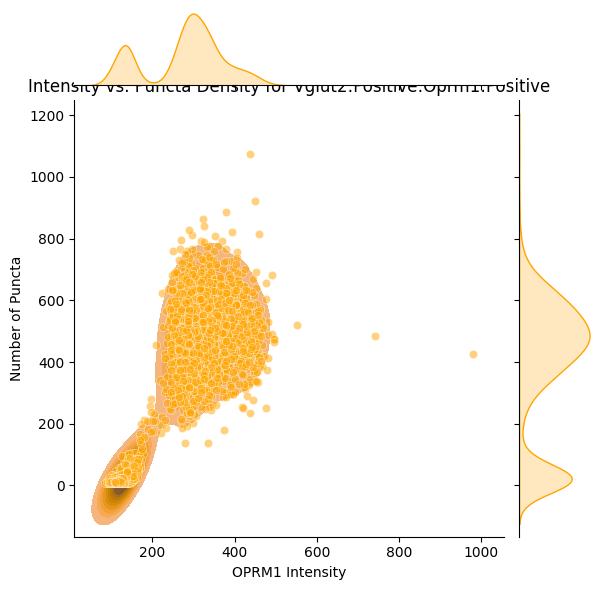
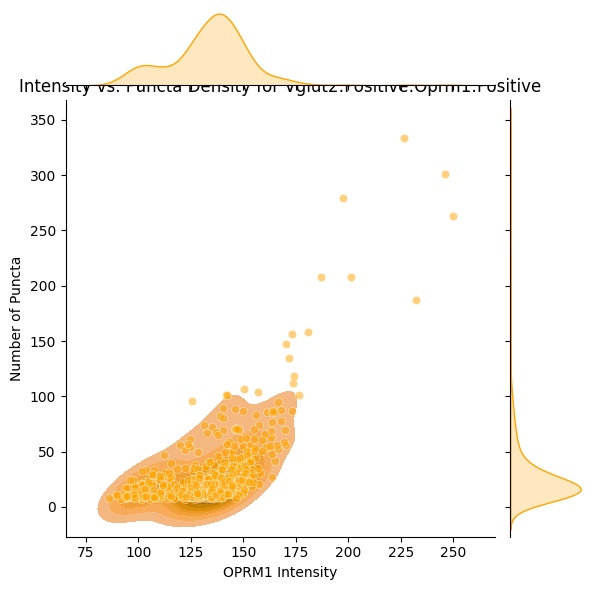
boxplot stats

diff --git a/ImageAnalysis/VentralPallidum_Pipeline/comparison_vgatvglut2oprm1_plots.py b/ImageAnalysis/VentralPallidum_Pipeline/comparison_vgatvglut2oprm1_plots.py
@@ -3,6 +3,7 @@ import pandas as pd
 import matplotlib.pyplot as plt
 import seaborn as sns
 from scipy.stats import mannwhitneyu, ks_2samp
+from statannotations.Annotator import Annotator
 
 # Define paths for VGAT and VGLUT2 data
 paths = {
@@ -74,45 +75,33 @@ for key in data:
     else:
         data[key] = pd.DataFrame(columns=["AF568: Cell: Mean", "Subcellular: Channel 2: Num spots estimated"])
 
-
-##STATS
-
-
 # Perform statistical tests between VGAT+ and VGLUT2+ groups
 vgat_data = data["vgat_positive_oprm1_positive"]
 vglut2_data = data["vglut2_positive_oprm1_positive"]
 
+stat_results = {}
+
 if not vgat_data.empty and not vglut2_data.empty:
-    # Extract intensity values
     vgat_intensity = vgat_data["AF568: Cell: Mean"]
     vglut2_intensity = vglut2_data["AF568: Cell: Mean"]
 
-    # Mann-Whitney U Test (non-parametric comparison of medians)
+    # Mann-Whitney U Test
     u_stat, u_p_value = mannwhitneyu(vgat_intensity, vglut2_intensity, alternative='two-sided')
-    print(f"Mann-Whitney U Test: U-statistic = {u_stat}, p-value = {u_p_value}")
+    stat_results["Mann-Whitney"] = (u_stat, u_p_value)
 
-    # Kolmogorov-Smirnov Test (non-parametric comparison of distributions)
+    # Kolmogorov-Smirnov Test
     ks_stat, ks_p_value = ks_2samp(vgat_intensity, vglut2_intensity)
-    print(f"Kolmogorov-Smirnov Test: KS-statistic = {ks_stat}, p-value = {ks_p_value}")
+    stat_results["Kolmogorov-Smirnov"] = (ks_stat, ks_p_value)
 
     # Save results to a text file
     stats_results_path = os.path.join(plots_dir, "statistical_tests_results.txt")
     with open(stats_results_path, "w") as f:
         f.write("Statistical Test Results:\n")
-        f.write(f"Mann-Whitney U Test: U-statistic = {u_stat}, p-value = {u_p_value}\n")
-        f.write(f"Kolmogorov-Smirnov Test: KS-statistic = {ks_stat}, p-value = {ks_p_value}\n")
+        for test_name, (stat, p_val) in stat_results.items():
+            f.write(f"{test_name}: Statistic = {stat}, p-value = {p_val}\n")
     print(f"Statistical test results saved to {stats_results_path}")
-else:
-    print("One or both datasets are empty. Cannot perform statistical tests.")
 
-
-
-##PLOTS
-
-
-
-
-# KDE Plot for OPRM1 Intensity
+# KDE Plot
 comparison_data = []
 for cell_type, df in data.items():
     if not df.empty:
@@ -137,62 +126,34 @@ if comparison_data:
     plt.close()
     print(f"KDE comparison plot saved to {kde_path}.")
 
-    # Box Plot
-    formatted_colors = {
-        "Vgat Positive Oprm1 Positive": "green",
-        "Vglut2 Positive Oprm1 Positive": "orange",
-    }
+#boxplot
+# Define a formatted palette that matches the DataFrame's "Cell Type" column
+formatted_colors = {
+    "Vgat Positive Oprm1 Positive": "green",
+    "Vglut2 Positive Oprm1 Positive": "orange",
+}
 
-    plt.figure(figsize=(10, 6))
-    sns.boxplot(data=comparison_df, x="Cell Type", y="Intensity", palette=formatted_colors)
-    plt.title("Comparative Distribution of OPRM1 Intensity for VGAT+ and VGLUT2+ Cells", fontsize=16)
-    plt.xlabel("Cell Type")
-    plt.ylabel("OPRM1 Intensity")
-    plt.tight_layout()
+# Box Plot with Statistical Annotation
+plt.figure(figsize=(10, 6))
+ax = sns.boxplot(
+    data=comparison_df,
+    x="Cell Type",
+    y="Intensity",
+    palette=formatted_colors  # Use the corrected palette
+)
 
-    box_plot_path = os.path.join(plots_dir, "Box_Comparison_VGAT_vs_VGLUT2.png")
-    plt.savefig(box_plot_path)
-    plt.close()
-    print(f"Box plot saved to {box_plot_path}.")
+# Annotator setup
+pairs = [("Vgat Positive Oprm1 Positive", "Vglut2 Positive Oprm1 Positive")]
+annotator = Annotator(ax, pairs, data=comparison_df, x="Cell Type", y="Intensity")
+annotator.set_pvalues([u_p_value])  # Use the Mann-Whitney U-test p-value
+annotator.annotate()
 
-# Scatter plots for Intensity vs. Number of Spots
-for cell_type, df in data.items():
-    if not df.empty:
-        plt.figure(figsize=(10, 6))
-        sns.scatterplot(
-            data=df,
-            x="AF568: Cell: Mean",
-            y="Subcellular: Channel 2: Num spots estimated",
-            alpha=0.6,
-            color=colors[cell_type]
-        )
-        plt.title(f"Intensity vs. Number of Puncta for {cell_type.replace('_', ':').title()}")
-        plt.xlabel("OPRM1 Intensity")
-        plt.ylabel("Number of Puncta")
-        plt.grid(True)
-        plt.tight_layout()
+plt.title("Comparative Distribution of OPRM1 Intensity for VGAT+ and VGLUT2+ Cells", fontsize=16)
+plt.xlabel("Cell Type")
+plt.ylabel("OPRM1 Intensity")
+plt.tight_layout()
 
-        scatter_path = os.path.join(plots_dir, f"Intensity_vs_Puncta_{cell_type}.png")
-        plt.savefig(scatter_path)
-        plt.close()
-        print(f"Scatter plot for {cell_type.replace('_', ':').title()} saved to {plots_dir}")
-
-# Joint plots for combined density and scatter
-for cell_type, df in data.items():
-    if not df.empty:
-        joint_plot = sns.jointplot(
-            data=df,
-            x="AF568: Cell: Mean",
-            y="Subcellular: Channel 2: Num spots estimated",
-            kind="kde",
-            fill=True,
-            color=colors[cell_type]
-        )
-        joint_plot.plot_joint(sns.scatterplot, color=colors[cell_type], alpha=0.5)
-        joint_plot.ax_joint.set_title(f"Intensity vs. Puncta Density for {cell_type.replace('_', ':').title()}", fontsize=12)
-        joint_plot.set_axis_labels("OPRM1 Intensity", "Number of Puncta")
-
-        joint_path = os.path.join(plots_dir, f"Density_vs_Puncta_{cell_type}.png")
-        joint_plot.savefig(joint_path)
-        plt.close()
-        print(f"Joint plot for {cell_type.replace('_', ':').title()} saved to {plots_dir}")
+box_plot_path = os.path.join(plots_dir, "Box_Comparison_VGAT_vs_VGLUT2_with_annotations.png")
+plt.savefig(box_plot_path)
+plt.close()
+print(f"Box plot with statistical annotations saved to {box_plot_path}.")

diff --git a/ImageAnalysis/VentralPallidum_Pipeline/vglut2_oprm1/vglut2_oprm1_txt_to_cell_analysis_withRNAmetrics.py b/ImageAnalysis/VentralPallidum_Pipeline/vglut2_oprm1/vglut2_oprm1_txt_to_cell_analysis_withRNAmetrics.py
@@ -7,10 +7,10 @@ import pandas as pd
 
 # Define all paths in a single dictionary (Windows-style)
 paths = {
-    "raw_detection": r"/Volumes/hnaskolab/Jamie Anne Mortel/BACKUPFROMDRIVE/VP_qp_LF - ITERATION4/detections_iteration4_withMu_SPOTSIZE_12.13.24",
-    "raw_annotation": r"/Volumes/hnaskolab/Jamie Anne Mortel/BACKUPFROMDRIVE/VP_qp_LF - ITERATION4/annotations_iteration4_withMu_SPOTSIZE_12.13.24",
-    "detection_csv": r"/Volumes/hnaskolab/Jamie Anne Mortel/BACKUPFROMDRIVE/VP_qp_LF - ITERATION4/detections_iteration4_withMu_SPOTSIZE_12.13.24_CSV",
-    "annotation_csv": r"/Volumes/hnaskolab/Jamie Anne Mortel/BACKUPFROMDRIVE/VP_qp_LF - ITERATION4/annotations_iteration4_withMu_SPOTSIZE_12.13.24_CSV"
+    "raw_detection": r"/Volumes/backup driv/VP_qp_LF - ITERATION4 - VGLUT2_OPRM1_COMPOSITE/detections_iteration4_vglut2withMu_12.13.24",
+    "raw_annotation": r"/Volumes/backup driv/VP_qp_LF - ITERATION4 - VGLUT2_OPRM1_COMPOSITE/annotations_iteration4_vglut2withMu_12.13.24",
+    "detection_csv": r"/Volumes/backup driv/VP_qp_LF - ITERATION4 - VGLUT2_OPRM1_COMPOSITE/detections_iteration4_vglut2withMu_12.13.24_csv",
+    "annotation_csv": r"/Volumes/backup driv/VP_qp_LF - ITERATION4 - VGLUT2_OPRM1_COMPOSITE/annotations_iteration4_vglut2withMu_12.13.24_csv"
 }
 
 # Function to convert Windows paths to Unix-like paths if running in a Unix environment
@@ -52,11 +52,11 @@ QYellow = "AF568"
 QPPink = "AF647"
 
 Yellow_posName = "oprm1_Pos"
-Yellow_posName_2 = "oprm1_Pos: vglut2_Neg"
+Yellow_posName_2 = "vglut2_Neg: oprm1_Pos"
 Pink_posName = "vglut2_Pos"
-Pink_posName_2 = "oprm1_Neg: vglut2_Pos"
-double_positive = "oprm1_Pos: vglut2_Pos"
-double_negative = "oprm1_Neg: vglut2_Neg"
+Pink_posName_2 = "vglut2_Pos: oprm1_Neg"
+double_positive = "vglut2_Pos: oprm1_Pos"
+double_negative = "vglut2_Neg: oprm1_Neg"
 
 # Additional subcellular metric columns
 subcellular_metrics = [
@@ -118,7 +118,7 @@ for k, file in enumerate(filelist):
         realAnnotations = ano_data[ano_data['Object type'].isin(["Annotation", "PathAnnotationObject"])]
         anoArea = realAnnotations['Area µm^2'].sum() / 1e6 if not realAnnotations.empty else 0
 
-        YellowIntensity = QPYellow_only['AF488: Cell: Mean'].mean() if not QPYellow_only.empty else None
+        YellowIntensity = QPYellow_only['AF568: Cell: Mean'].mean() if not QPYellow_only.empty else None
         PinkIntensity = QPPink_only['AF647: Cell: Mean'].mean() if not QPPink_only.empty else None
 
         YellowCellCount = len(QPYellow_only)
@@ -169,5 +169,5 @@ for k, file in enumerate(filelist):
         print(f"Error processing {file}: {e}")
 
 # Write the results to CSV and XLSX
-DataDraft.to_csv("12.13.24_MU_SUBCELLULARMETRICS_WITHNEG_processed_data_with_subcellular_metrics.csv", index=False)
-DataDraft.to_excel("12.13.24_MU__SUBCELLULARMETRICS_WITHNEG_processed_data_with_subcellular_metrics.xlsx", index=False)
+DataDraft.to_csv("vglut2_oprm1_subcellular_metrics.csv", index=False)
+DataDraft.to_excel("vglut2_oprm1_subcellular_metrics.xlsx", index=False)

diff --git a/ImageAnalysis/VentralPallidum_Pipeline/vgat_oprm1/vgat_oprm1_txt_to_cell_analysis_withRNAmetrics.py b/ImageAnalysis/VentralPallidum_Pipeline/vgat_oprm1/vgat_oprm1_txt_to_cell_analysis_withRNAmetrics.py
@@ -118,7 +118,7 @@ for k, file in enumerate(filelist):
         realAnnotations = ano_data[ano_data['Object type'].isin(["Annotation", "PathAnnotationObject"])]
         anoArea = realAnnotations['Area µm^2'].sum() / 1e6 if not realAnnotations.empty else 0
 
-        YellowIntensity = QPYellow_only['AF488: Cell: Mean'].mean() if not QPYellow_only.empty else None
+        YellowIntensity = QPYellow_only['AF568: Cell: Mean'].mean() if not QPYellow_only.empty else None
         blueIntensity = QPblue_only['AF647: Cell: Mean'].mean() if not QPblue_only.empty else None
 
         YellowCellCount = len(QPYellow_only)
@@ -169,5 +169,5 @@ for k, file in enumerate(filelist):
         print(f"Error processing {file}: {e}")
 
 # Write the results to CSV and XLSX
-DataDraft.to_csv("12.16.24_OPRM1CELLCOUNTS.csv", index=False)
-DataDraft.to_excel("12.16.24_OPRM1CELLCOUNTS.xlsx", index=False)
+DataDraft.to_csv("vgat_oprm1_subcellular_metrics.csv", index=False)
+DataDraft.to_excel("vgat_oprm1_subcellular_metrics.xlsx", index=False)

diff --git a/ImageAnalysis/VentralPallidum_Pipeline/vgat_oprm1/vgat_oprm1_txt_to_cell_analysis_withRNAmetrics_oprm1intensityplots.py b/ImageAnalysis/VentralPallidum_Pipeline/vgat_oprm1/vgat_oprm1_txt_to_cell_analysis_withRNAmetrics_oprm1intensityplots.py
@@ -52,7 +52,7 @@ for file in filelist:
         print(f"Error processing {file}: {e}")
 
 # Set y-axis maximum for histograms and CDF plots
-y_max = 2500
+y_max = 800
 
 # Calculate global min and max for x-axis
 x_min = min([min(values) for values in intensity_data.values() if values])
@@ -69,7 +69,7 @@ for cell_type, values in intensity_data.items():
         plt.title(f"Distribution of Oprm1 Intensity for {cell_type.replace('_', ':').title()}")
         plt.xlabel("Oprm1 Intensity")
         plt.ylabel("Frequency")
-        plt.xlim(x_min, 600)
+        plt.xlim(x_min, 400)
         plt.ylim(0, y_max)
         plt.grid(True)
         hist_path = os.path.join(plots_dir, f"Distribution_of_oprm1_intensity_{cell_type}.png")

diff --git a/ImageAnalysis/VentralPallidum_Pipeline/vglut2_oprm1/vglut2_oprm1_txt_to_cell_analysis_withRNAmetrics_oprm1intensityoverallplots.py b/ImageAnalysis/VentralPallidum_Pipeline/vglut2_oprm1/vglut2_oprm1_txt_to_cell_analysis_withRNAmetrics_oprm1intensityoverallplots.py
@@ -51,7 +51,7 @@ for file in filelist:
         print(f"Error processing {file}: {e}")
 
 # Set y-axis maximum for histograms and CDF plots
-y_max = 2500
+y_max = 800
 
 # Calculate global min and max for x-axis
 x_min = min([min(values) for values in intensity_data.values() if values])
@@ -68,7 +68,7 @@ for cell_type, values in intensity_data.items():
         plt.title(f"Distribution of Oprm1 Intensity for {cell_type.replace('_', ':').title()}")
         plt.xlabel("Oprm1 Intensity")
         plt.ylabel("Frequency")
-        plt.xlim(x_min, 600)
+        plt.xlim(x_min, 400)
         plt.ylim(0, y_max)
         plt.grid(True)
         hist_path = os.path.join(plots_dir, f"Distribution_of_oprm1_intensity_{cell_type}.png")
